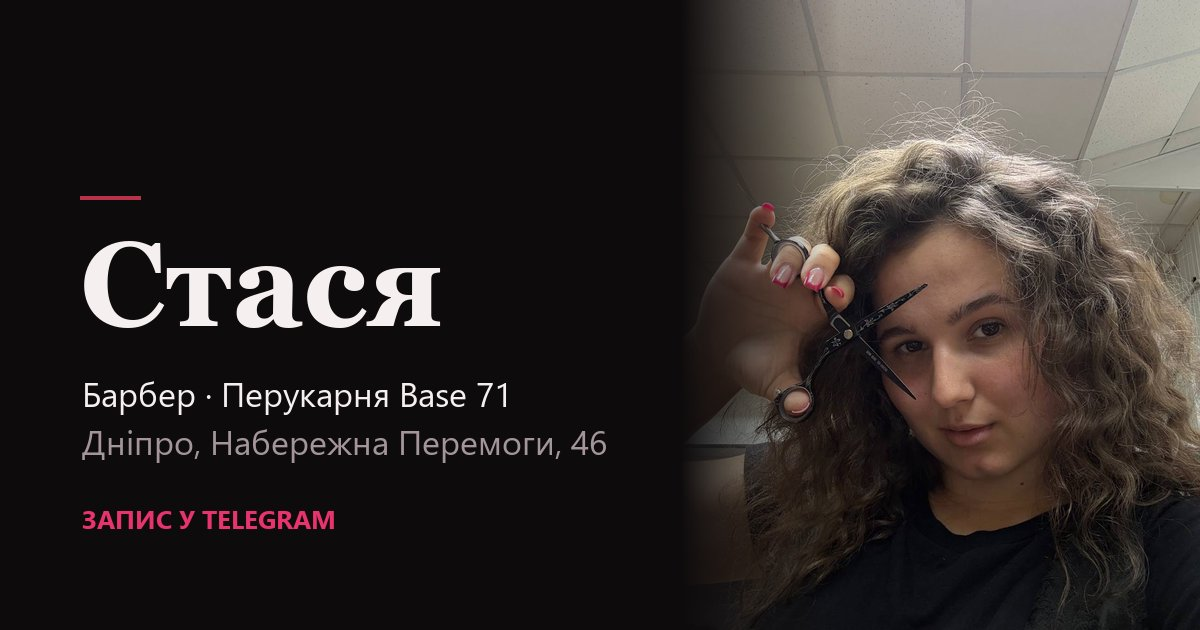
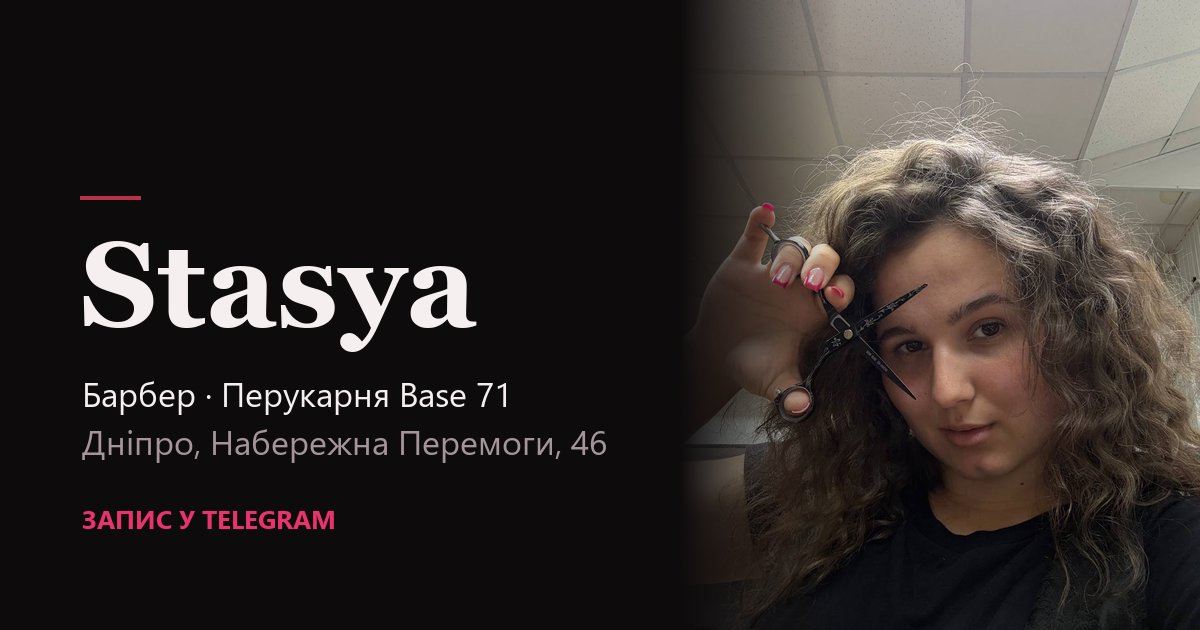
Rename to Stasya and use her own About text

Changed region(s): [[0.0617, 0.3619, 0.4008, 0.573]]

diff --git a/index.html b/index.html
@@ -3,7 +3,7 @@
 <head>
   <meta charset="UTF-8">
   <meta name="viewport" content="width=device-width, initial-scale=1">
-  <title>Стася — барбер у Дніпрі · Перукарня Base 71</title>
+  <title>Stasya — барбер у Дніпрі · Перукарня Base 71</title>
   <meta name="description" content="Чоловічі стрижки та стрижка бороди в перукарні Base 71, Дніпро, Набережна Перемоги, 46. Ціни від 100 грн. Запис у Telegram.">
   <meta name="theme-color" content="#0e0b0c">
   <script>document.documentElement.classList.add('js')</script>
@@ -11,7 +11,7 @@
   <!-- Превью ссылки в Instagram / Telegram -->
   <meta property="og:type" content="website">
   <meta property="og:locale" content="uk_UA">
-  <meta property="og:title" content="Стася — барбер у перукарні Base 71">
+  <meta property="og:title" content="Stasya — барбер у перукарні Base 71">
   <meta property="og:description" content="Чоловічі стрижки та борода. Дніпро, Набережна Перемоги, 46. Запис у Telegram.">
   <meta property="og:image" content="https://daniil-topc.github.io/stasya-barber/img/og.jpg">
   <meta property="og:image:width" content="1200">
@@ -225,7 +225,7 @@
   <!-- ========== ШАПКА ========== -->
   <header class="header" id="header">
     <div class="wrap header__inner">
-      <a class="logo" href="#top">Стася<span class="logo__dot">.</span></a>
+      <a class="logo" href="#top">Stasya<span class="logo__dot">.</span></a>
       <nav class="nav" aria-label="Розділи сайту">
         <a href="#about">Про мене</a>
         <a href="#prices">Ціни</a>
@@ -243,11 +243,11 @@
     <section class="hero" id="top">
       <div class="wrap hero__grid">
         <div class="hero__photo">
-          <img src="img/master/master-01-900.webp" srcset="img/master/master-01-480.webp 480w, img/master/master-01-900.webp 900w" sizes="(min-width: 768px) 45vw, 100vw" alt="Барбер Стася з ножицями" width="900" height="1201" fetchpriority="high">
+          <img src="img/master/master-01-900.webp" srcset="img/master/master-01-480.webp 480w, img/master/master-01-900.webp 900w" sizes="(min-width: 768px) 45vw, 100vw" alt="Барбер Stasya з ножицями" width="900" height="1201" fetchpriority="high">
         </div>
         <div class="hero__body">
           <p class="eyebrow">Барбер · Перукарня Base 71 · Дніпро</p>
-          <h1 class="hero__title">Стася</h1>
+          <h1 class="hero__title">Stasya</h1>
           <p class="hero__lead">Чоловічі стрижки та борода на Набережній Перемоги, 46. Оберіть послугу і день, а я підтверджу час у Telegram.</p>
           <div class="hero__actions">
             <a class="btn btn--primary" href="#booking">Записатися</a>
@@ -268,15 +268,15 @@
         <!-- Сюда пойдёт img/tools.jpg (инструменты мастера). Пока стоит фото Стаси с машинкой:
              когда появится tools.jpg, поменяйте src и alt -->
         <div class="about__photo reveal">
-          <img src="img/master/master-02-900.webp" srcset="img/master/master-02-480.webp 480w, img/master/master-02-900.webp 900w" sizes="(min-width: 768px) 42vw, 100vw" alt="Стася з машинкою для стрижки" width="900" height="1201" loading="lazy">
+          <img src="img/master/master-02-900.webp" srcset="img/master/master-02-480.webp 480w, img/master/master-02-900.webp 900w" sizes="(min-width: 768px) 42vw, 100vw" alt="Stasya з машинкою для стрижки" width="900" height="1201" loading="lazy">
         </div>
         <div class="about__body reveal">
           <p class="eyebrow">Про майстра</p>
           <h2 class="section__title">Трохи про мене</h2>
-          <!-- ЗАГЛУШКА: текст отредактирует Даня -->
+          <!-- Текст по смыслу от самой Стаси (29.10.2026) -->
           <div class="about__text">
-            <p>Мене звати Стася, я барбер у перукарні Base 71 і стрижу вже три роки.</p>
-            <p>У мене домашня атмосфера і бадьорий настрій. Приходьте, поговоримо і зробимо стрижку, з якою вам буде зручно.</p>
+            <p>Постійно підвищую кваліфікацію та ходжу на майстер-класи, щоб стригти професійно. Розвиваюся і не стою на місці.</p>
+            <p>Мені важливо, щоб зі стрижкою вам було зручно не тільки в день, коли ви вийшли з перукарні, а й аж до нашої наступної зустрічі.</p>
           </div>
         </div>
       </div>
@@ -553,7 +553,7 @@
   <footer class="footer">
     <div class="wrap footer__inner">
       <div>
-        <p class="footer__name">Стася</p>
+        <p class="footer__name">Stasya</p>
         <p>Барбер · Перукарня Base 71 · Дніпро</p>
       </div>
       <div class="footer__links">
@@ -564,7 +564,7 @@
           <svg aria-hidden="true"><use href="#i-telegram"/></svg>Telegram
         </a>
       </div>
-      <p class="footer__meta">© <span id="year"></span> Стася · Base 71<span class="footer__sep">·</span>Сайт розроблено Veltrix</p>
+      <p class="footer__meta">© <span id="year"></span> Stasya · Base 71<span class="footer__sep">·</span>Сайт розроблено Veltrix</p>
     </div>
   </footer>
 
